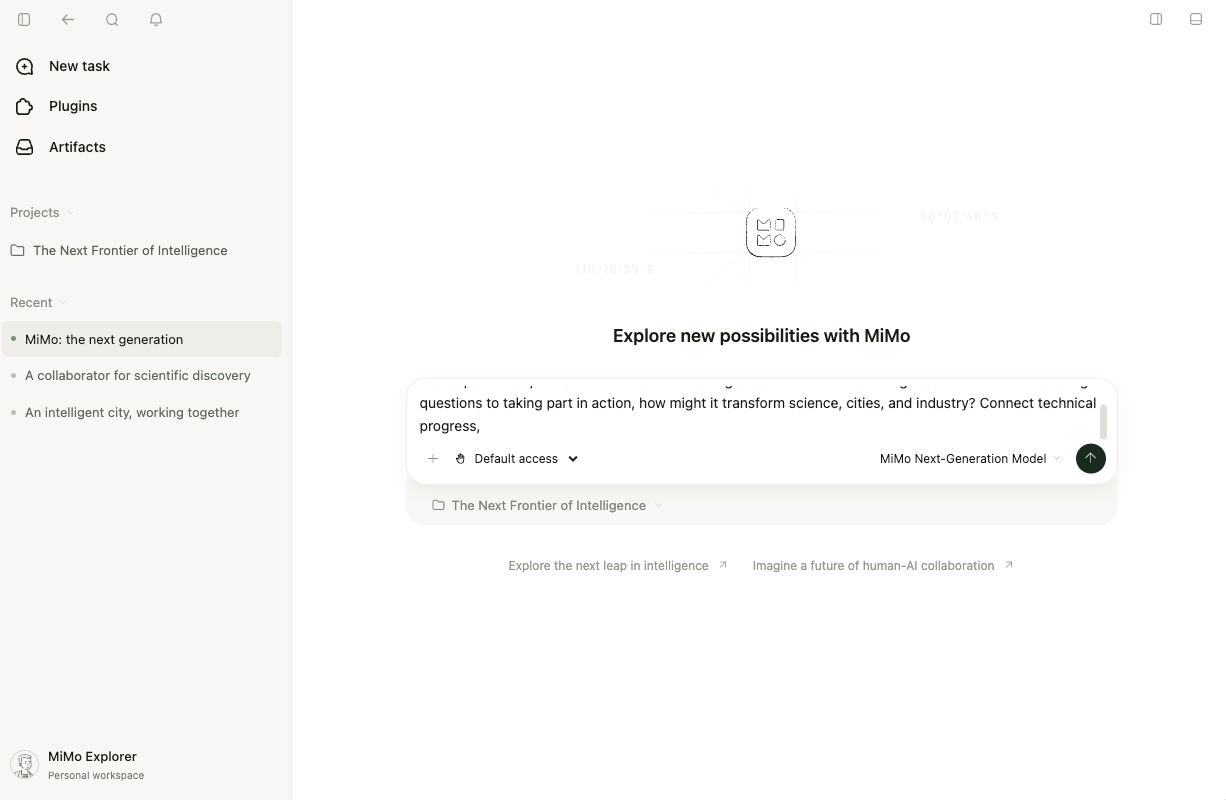
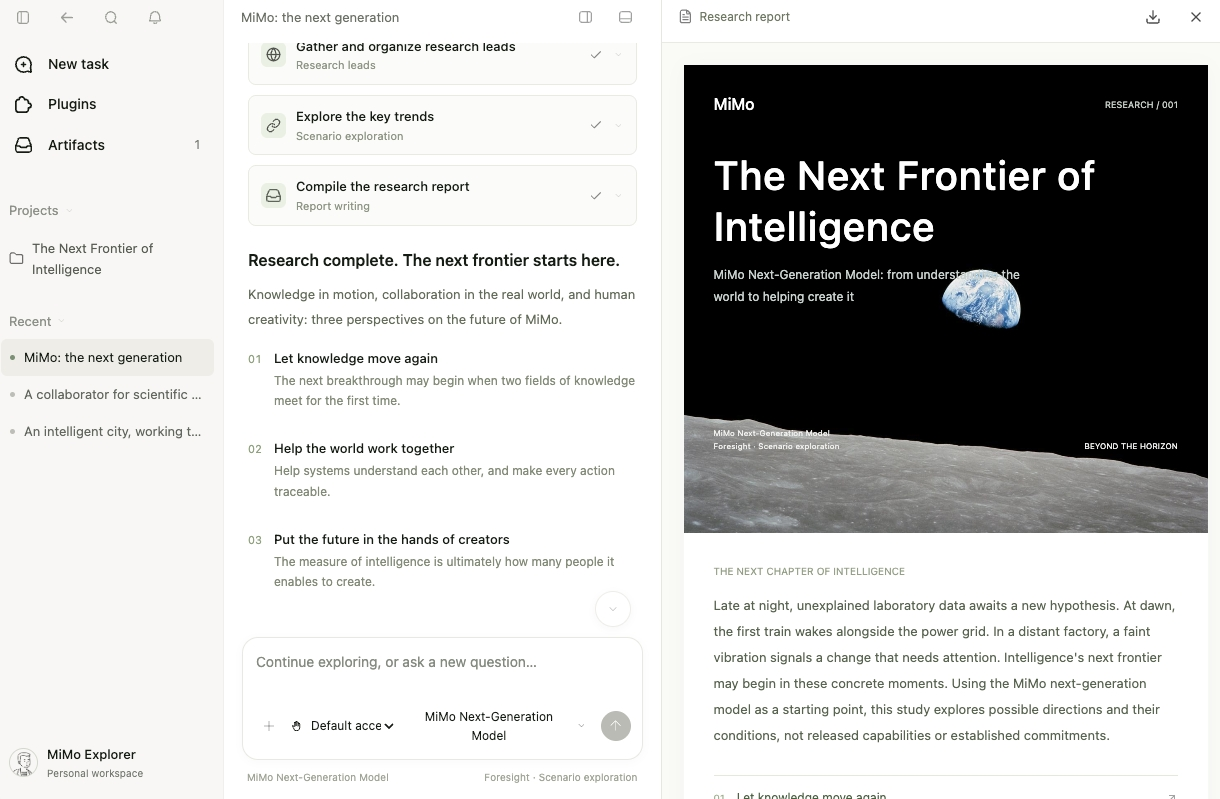
docs(readme): use the en desktop screenshot in the en readme

diff --git a/README.md b/README.md
@@ -22,7 +22,7 @@ MiMoCode is a terminal-native AI coding assistant. It can read and write code, r
 
 ## Xiaomi MiMo Desktop Beta
 
-<p align="center"><img src="assets/readme/mimo-desktop-cn.jpg" alt="Xiaomi MiMo Desktop English interface: starting a new task" width="900"></p>
+<p align="center"><img src="assets/readme/mimo-desktop-en.jpg" alt="Xiaomi MiMo Desktop English interface: starting a new task" width="900"></p>
 
 Xiaomi MiMo Desktop is built for real-world work: one conversation can handle office work, design, coding, and multimodal creation, while multiple conversations can divide work and collaborate. The desktop app is powered by **MiMo Code as its core engine**, bringing its terminal-native intelligence to desktop workflows.
 
